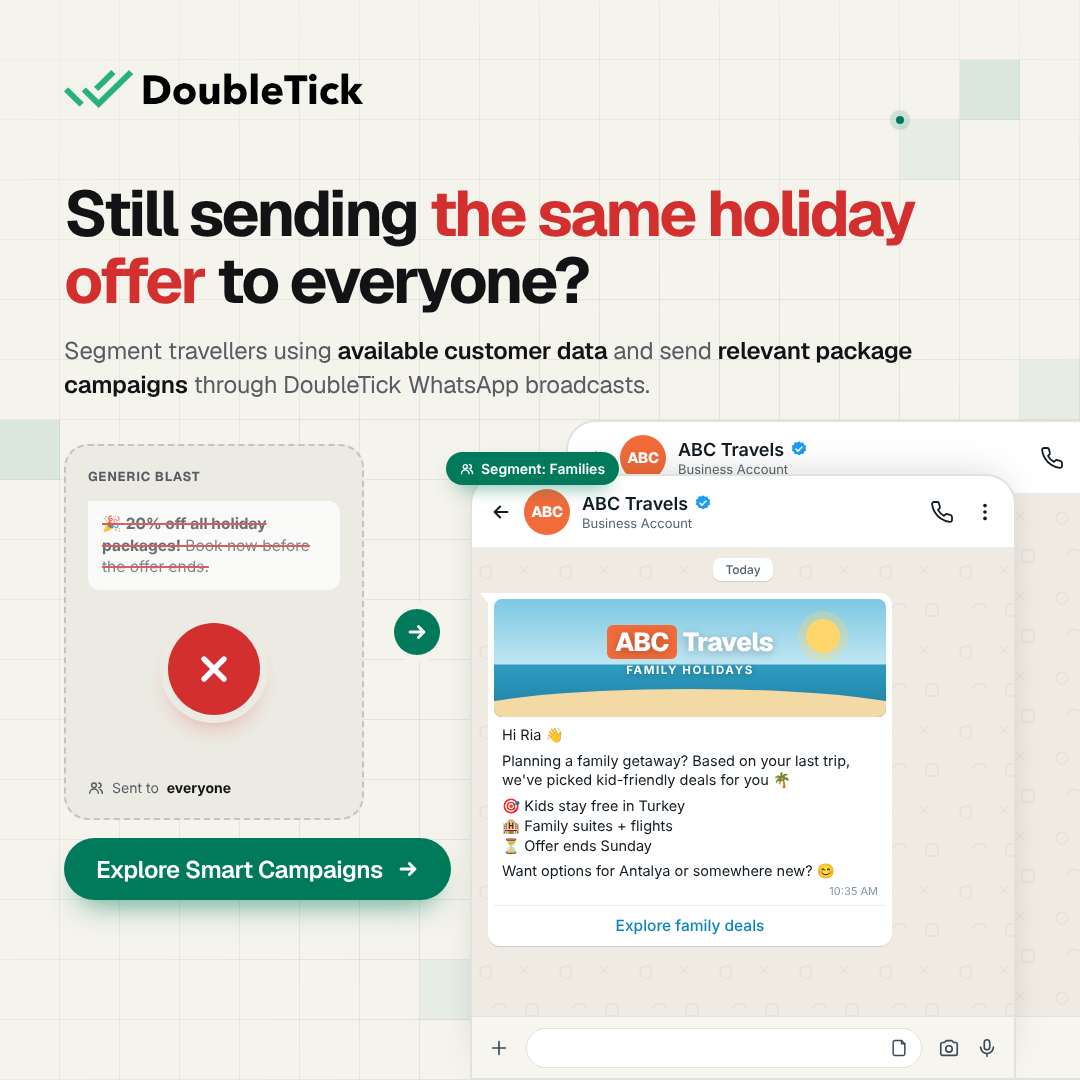
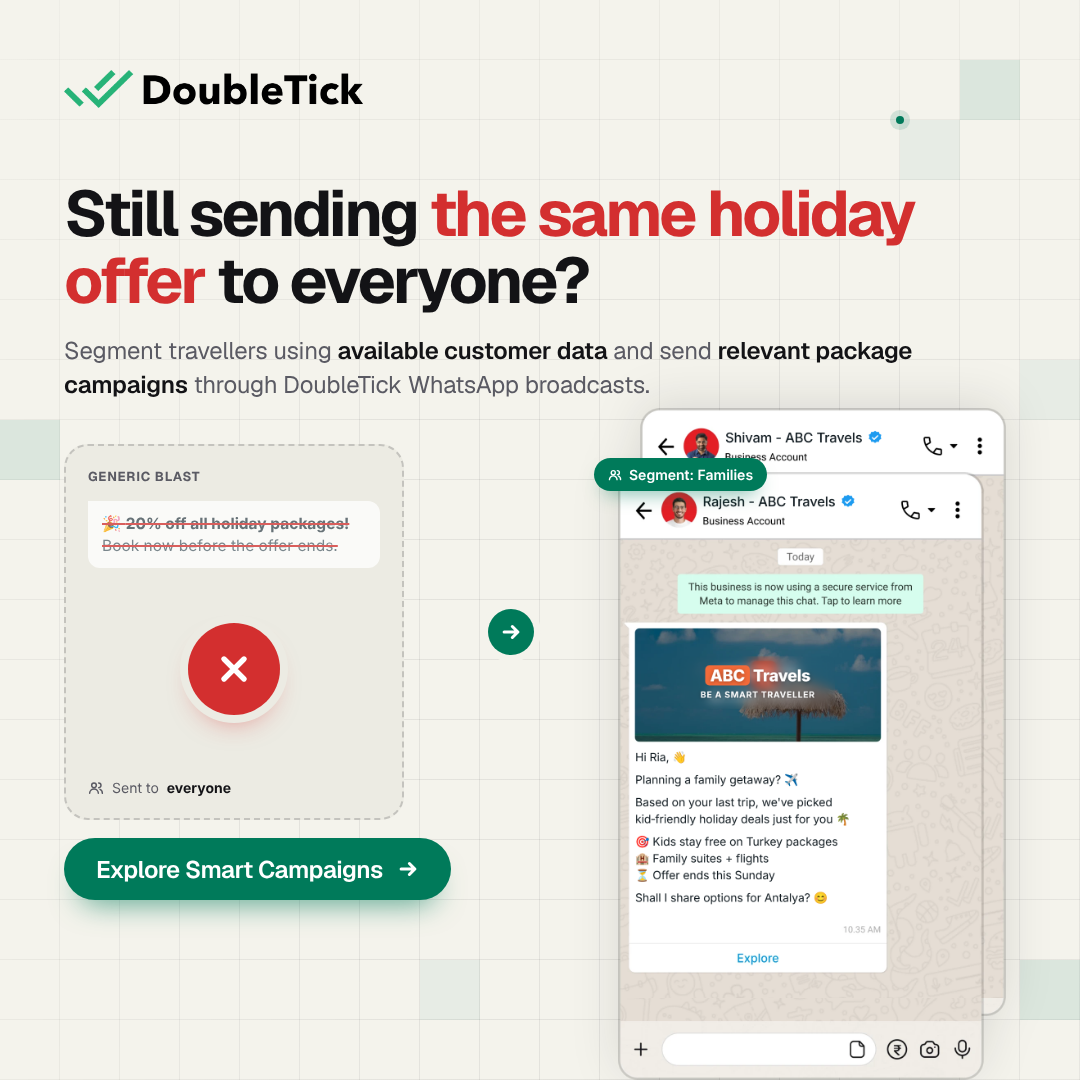
feat: use edited reference chat (ABC Travels) in smart campaigns ad
Claude-Session: https://claude.ai/code/session_01U68wzeZAut9FRgfZMxNXRM

diff --git a/ads/doubletick-smart-campaigns/index.html b/ads/doubletick-smart-campaigns/index.html
@@ -47,7 +47,7 @@
   .sub b { color: var(--ink); font-weight: 600; }
 
   /* ---------- generic blast (crossed out) ---------- */
-  .blast { position: absolute; left: 64px; top: 444px; width: 300px; height: 376px; border-radius: 24px; background: #ECEBE3; border: 2px dashed rgba(19,19,22,0.18); padding: 22px; display: flex; flex-direction: column; font-family: "Inter", "Segoe UI", Helvetica, Arial, sans-serif; }
+  .blast { position: absolute; left: 64px; top: 444px; width: 340px; height: 376px; border-radius: 24px; background: #ECEBE3; border: 2px dashed rgba(19,19,22,0.18); padding: 22px; display: flex; flex-direction: column; font-family: "Inter", "Segoe UI", Helvetica, Arial, sans-serif; }
   .blast .lbl { font-family: "Geist", sans-serif; font-size: 13px; font-weight: 700; letter-spacing: 0.06em; text-transform: uppercase; color: var(--ink-2); }
   .blast .bub { position: relative; margin-top: 16px; background: #fff; border-radius: 12px; border-top-left-radius: 0; padding: 12px 14px; font-size: 15.5px; line-height: 1.4; color: #54656F; opacity: 0.75; text-decoration: line-through; text-decoration-color: #D32F2F; text-decoration-thickness: 2px; }
   .blast .bub b { color: #3B4A54; }
@@ -57,7 +57,7 @@
   .strike { position: absolute; left: 34px; right: 34px; top: 46%; height: 3px; background: #D32F2F; transform: rotate(-14deg); opacity: 0.85; border-radius: 3px; }
 
   /* ---------- arrow ---------- */
-  .arrow { position: absolute; left: 394px; top: 609px; width: 46px; height: 46px; border-radius: 50%; background: var(--green); display: grid; place-items: center; box-shadow: 0 0 0 7px var(--bg); z-index: 4; }
+  .arrow { position: absolute; left: 488px; top: 609px; width: 46px; height: 46px; border-radius: 50%; background: var(--green); display: grid; place-items: center; box-shadow: 0 0 0 7px var(--bg); z-index: 4; }
 
   /* ---------- stacked WhatsApp chats (bleed off bottom) ---------- */
   .phone { position: absolute; border-radius: 30px 30px 0 0; background: #EFEAE2; border: 2px solid #E2E2DC; overflow: hidden; font-family: "Inter", "Segoe UI", Helvetica, Arial, sans-serif; color: #111B21; }
@@ -87,7 +87,8 @@
   .btn { border-top: 1px solid #E9EDEF; text-align: center; padding: 10px 0 11px; color: #0A84C1; font-weight: 500; font-size: 15.5px; }
   .comp { flex: none; height: 62px; display: flex; align-items: center; gap: 16px; padding: 0 16px; background: #F7F5F0; border-top: 1px solid #E6E2DA; }
   .comp .field { flex: 1; height: 40px; border-radius: 999px; background: #fff; border: 1px solid #E6E2DA; display: flex; align-items: center; justify-content: flex-end; padding: 0 12px; }
-  .segchip { position: absolute; left: 446px; top: 452px; z-index: 5; display: flex; align-items: center; gap: 7px; font-size: 14px; font-weight: 600; color: #fff; background: var(--green); padding: 8px 14px; border-radius: 999px; box-shadow: 0 10px 20px -10px rgba(0,122,90,0.7); font-family: "Inter", sans-serif; }
+  .chat { position: absolute; left: 618px; bottom: 0; height: 672px; width: auto; z-index: 3; filter: drop-shadow(0 -6px 24px rgba(19,19,22,0.12)); }
+  .segchip { position: absolute; left: 594px; top: 458px; z-index: 5; display: flex; align-items: center; gap: 7px; font-size: 14px; font-weight: 600; color: #fff; background: var(--green); padding: 8px 14px; border-radius: 999px; box-shadow: 0 10px 20px -10px rgba(0,122,90,0.7); font-family: "Inter", sans-serif; }
 
   /* ---------- footer ---------- */
   .footer { position: absolute; left: 64px; bottom: 180px; display: flex; align-items: center; }
@@ -123,26 +124,8 @@
 
   <div class="arrow"><svg width="22" height="22" viewBox="0 0 16 16" fill="none"><path d="M3 8h10M9 4l4 4-4 4" stroke="#fff" stroke-width="2.2" stroke-linecap="round" stroke-linejoin="round"/></svg></div>
 
-  <!-- stacked WhatsApp chats: personalised broadcast, bleeding off the bottom edge -->
-  <div class="phone back"><div class="wh"><svg width="22" height="22" viewBox="0 0 24 24" fill="none" stroke="#111B21" stroke-width="2.2" stroke-linecap="round" stroke-linejoin="round"><path d="M19 12H5M11 6l-6 6 6 6"/></svg><div class="wav">ABC</div><div><div class="wn">ABC Travels <svg width="18" height="18" viewBox="0 0 24 24"><path d="M12 1.5l2.6 2 3.2-.3 1 3.1 2.8 1.6-.9 3.1.9 3.1-2.8 1.6-1 3.1-3.2-.3-2.6 2-2.6-2-3.2.3-1-3.1L2.4 14l.9-3.1-.9-3.1 2.8-1.6 1-3.1 3.2.3z" fill="#1D9BF0"/><path d="M8 12.2l2.6 2.6L16 9.4" stroke="#fff" stroke-width="2" fill="none" stroke-linecap="round" stroke-linejoin="round"/></svg></div><div class="ws">Business Account</div></div><div class="wi"><svg width="24" height="24" viewBox="0 0 24 24" fill="none" stroke="#111B21" stroke-width="1.8" stroke-linecap="round" stroke-linejoin="round"><path d="M22 16.9v3a2 2 0 0 1-2.2 2 19.8 19.8 0 0 1-8.6-3.1 19.5 19.5 0 0 1-6-6A19.8 19.8 0 0 1 2.1 4.2 2 2 0 0 1 4.1 2h3a2 2 0 0 1 2 1.7c.1 1 .4 1.9.7 2.8a2 2 0 0 1-.5 2.1L8 9.9a16 16 0 0 0 6 6l1.3-1.3a2 2 0 0 1 2.1-.5c.9.3 1.8.6 2.8.7a2 2 0 0 1 1.7 2z"/></svg><svg width="22" height="22" viewBox="0 0 24 24" fill="#111B21"><circle cx="12" cy="5" r="2"/><circle cx="12" cy="12" r="2"/><circle cx="12" cy="19" r="2"/></svg></div></div><div style="flex:1"></div><div class="comp"></div></div>
-  <div class="phone front">
-    <div class="wh"><svg width="22" height="22" viewBox="0 0 24 24" fill="none" stroke="#111B21" stroke-width="2.2" stroke-linecap="round" stroke-linejoin="round"><path d="M19 12H5M11 6l-6 6 6 6"/></svg><div class="wav">ABC</div><div><div class="wn">ABC Travels <svg width="18" height="18" viewBox="0 0 24 24"><path d="M12 1.5l2.6 2 3.2-.3 1 3.1 2.8 1.6-.9 3.1.9 3.1-2.8 1.6-1 3.1-3.2-.3-2.6 2-2.6-2-3.2.3-1-3.1L2.4 14l.9-3.1-.9-3.1 2.8-1.6 1-3.1 3.2.3z" fill="#1D9BF0"/><path d="M8 12.2l2.6 2.6L16 9.4" stroke="#fff" stroke-width="2" fill="none" stroke-linecap="round" stroke-linejoin="round"/></svg></div><div class="ws">Business Account</div></div><div class="wi"><svg width="24" height="24" viewBox="0 0 24 24" fill="none" stroke="#111B21" stroke-width="1.8" stroke-linecap="round" stroke-linejoin="round"><path d="M22 16.9v3a2 2 0 0 1-2.2 2 19.8 19.8 0 0 1-8.6-3.1 19.5 19.5 0 0 1-6-6A19.8 19.8 0 0 1 2.1 4.2 2 2 0 0 1 4.1 2h3a2 2 0 0 1 2 1.7c.1 1 .4 1.9.7 2.8a2 2 0 0 1-.5 2.1L8 9.9a16 16 0 0 0 6 6l1.3-1.3a2 2 0 0 1 2.1-.5c.9.3 1.8.6 2.8.7a2 2 0 0 1 1.7 2z"/></svg><svg width="22" height="22" viewBox="0 0 24 24" fill="#111B21"><circle cx="12" cy="5" r="2"/><circle cx="12" cy="12" r="2"/><circle cx="12" cy="19" r="2"/></svg></div></div>
-    <div class="wbody">
-      <span class="day">Today</span>
-      <div class="msg">
-        <div class="banner"><div class="sun"></div><div class="sand"></div><div class="center"><div class="blogo"><span>ABC</span>Travels</div><div class="tagl">FAMILY HOLIDAYS</div></div></div>
-        <div class="txt">
-          <p>Hi Ria 👋</p>
-          <p>Planning a family getaway? Based on your last trip, we've picked kid-friendly deals for you 🌴</p>
-          <p>🎯 Kids stay free in Turkey<br/>🏨 Family suites + flights<br/>⏳ Offer ends Sunday</p>
-          <p>Want options for Antalya or somewhere new? 😊</p>
-        </div>
-        <div class="tm">10:35 AM</div>
-        <div class="btn">Explore family deals</div>
-      </div>
-    </div>
-    <div class="comp"><svg width="22" height="22" viewBox="0 0 24 24" fill="none" stroke="#3B4A54" stroke-width="1.8" stroke-linecap="round" stroke-linejoin="round"><path d="M12 5v14M5 12h14"/></svg><div class="field"><svg width="20" height="20" viewBox="0 0 24 24" fill="none" stroke="#3B4A54" stroke-width="1.8" stroke-linecap="round" stroke-linejoin="round"><path d="M15 3H7a2 2 0 0 0-2 2v14a2 2 0 0 0 2 2h10a2 2 0 0 0 2-2V7z"/><path d="M15 3v4h4"/></svg></div><svg width="22" height="22" viewBox="0 0 24 24" fill="none" stroke="#3B4A54" stroke-width="1.8" stroke-linecap="round" stroke-linejoin="round"><path d="M3 8a2 2 0 0 1 2-2h2l2-2h6l2 2h2a2 2 0 0 1 2 2v10a2 2 0 0 1-2 2H5a2 2 0 0 1-2-2z"/><circle cx="12" cy="13" r="3.5"/></svg><svg width="22" height="22" viewBox="0 0 24 24" fill="none" stroke="#3B4A54" stroke-width="1.8" stroke-linecap="round" stroke-linejoin="round"><rect x="9" y="3" width="6" height="11" rx="3"/><path d="M5 11a7 7 0 0 0 14 0M12 18v3"/></svg></div>
-  </div>
+  <!-- personalised broadcast (edited reference chat), bottom flush with the canvas edge -->
+  <img class="chat" src="chat.png" alt="" />
   <div class="segchip"><svg width="14" height="14" viewBox="0 0 24 24" fill="none" stroke="#fff" stroke-width="2.4" stroke-linecap="round" stroke-linejoin="round"><circle cx="9" cy="8" r="3.5"/><path d="M2.5 20a6.5 6.5 0 0 1 13 0M16 4.5a3.5 3.5 0 0 1 0 7M18 14a6 6 0 0 1 3.5 6"/></svg>Segment: Families</div>
 
   <!-- footer -->

diff --git a/ads/doubletick-smart-campaigns/src/chat-edit.html b/ads/doubletick-smart-campaigns/src/chat-edit.html
@@ -1,0 +1,38 @@
+<!doctype html>
+<html><head><meta charset="utf-8" />
+<style>
+  * { margin: 0; padding: 0; box-sizing: border-box; }
+  html, body { width: 948px; height: 2000px; background: transparent; overflow: hidden; }
+  body { position: relative; font-family: "Inter", "Roboto", Helvetica, Arial, sans-serif; color: #111B21; }
+  .ref { position: absolute; inset: 0; width: 948px; height: 2000px; }
+  .patch { position: absolute; background: #fff; }
+  .name { position: absolute; display: flex; align-items: center; gap: 12px; font-size: 33px; font-weight: 500; letter-spacing: -0.01em; color: #111B21; white-space: nowrap; }
+  .blur { position: absolute; left: 150px; top: 606px; width: 380px; height: 128px; backdrop-filter: blur(14px); -webkit-backdrop-filter: blur(14px); border-radius: 18px; }
+  .brand { position: absolute; left: 41px; width: 601px; top: 628px; text-align: center; color: #fff; }
+  .brand .lg { font-weight: 800; font-size: 40px; letter-spacing: -0.02em; text-shadow: 0 2px 10px rgba(0,0,0,0.35); }
+  .brand .lg span { background: #F26B3A; padding: 0 12px; border-radius: 10px; margin-right: 8px; }
+  .brand .tg { margin-top: 10px; font-weight: 700; font-size: 21px; letter-spacing: 0.06em; text-shadow: 0 1px 8px rgba(0,0,0,0.4); }
+  .msg { position: absolute; left: 42px; top: 832px; width: 600px; font-size: 28px; line-height: 41px; letter-spacing: -0.005em; }
+  .msg p + p { margin-top: 14px; }
+</style></head>
+<body>
+  <img class="ref" src="chat-ref.png" />
+  <!-- back chat name -->
+  <div class="patch" style="left:255px; top:48px; width:440px; height:52px;"></div>
+  <div class="name" style="left:262px; top:52px;">Shivam - ABC Travels <svg width="38" height="38" viewBox="0 0 24 24"><path d="M12 1.5l2.6 2 3.2-.3 1 3.1 2.8 1.6-.9 3.1.9 3.1-2.8 1.6-1 3.1-3.2-.3-2.6 2-2.6-2-3.2.3-1-3.1L2.4 14l.9-3.1-.9-3.1 2.8-1.6 1-3.1 3.2.3z" fill="#1D9BF0"/><path d="M8 12.2l2.6 2.6L16 9.4" stroke="#fff" stroke-width="2" fill="none" stroke-linecap="round" stroke-linejoin="round"/></svg></div>
+  <!-- front chat name -->
+  <div class="patch" style="left:200px; top:204px; width:460px; height:54px;"></div>
+  <div class="name" style="left:207px; top:208px;">Rajesh - ABC Travels <svg width="38" height="38" viewBox="0 0 24 24"><path d="M12 1.5l2.6 2 3.2-.3 1 3.1 2.8 1.6-.9 3.1.9 3.1-2.8 1.6-1 3.1-3.2-.3-2.6 2-2.6-2-3.2.3-1-3.1L2.4 14l.9-3.1-.9-3.1 2.8-1.6 1-3.1 3.2.3z" fill="#1D9BF0"/><path d="M8 12.2l2.6 2.6L16 9.4" stroke="#fff" stroke-width="2" fill="none" stroke-linecap="round" stroke-linejoin="round"/></svg></div>
+  <!-- banner: blur the original logo, set ABC Travels -->
+  <div class="blur"></div>
+  <div class="brand"><div class="lg"><span>ABC</span>Travels</div><div class="tg">BE A SMART TRAVELLER</div></div>
+  <!-- message body -->
+  <div class="patch" style="left:30px; top:826px; width:620px; height:432px;"></div>
+  <div class="msg">
+    <p>Hi Ria, 👋</p>
+    <p>Planning a family getaway? ✈</p>
+    <p>Based on your last trip, we've picked kid&#8209;friendly holiday deals just for you 🌴</p>
+    <p>🎯 Kids stay free on Turkey packages<br/>🏨 Family suites + flights<br/>⏳ Offer ends this Sunday</p>
+    <p>Shall I share options for Antalya? 😊</p>
+  </div>
+</body></html>
